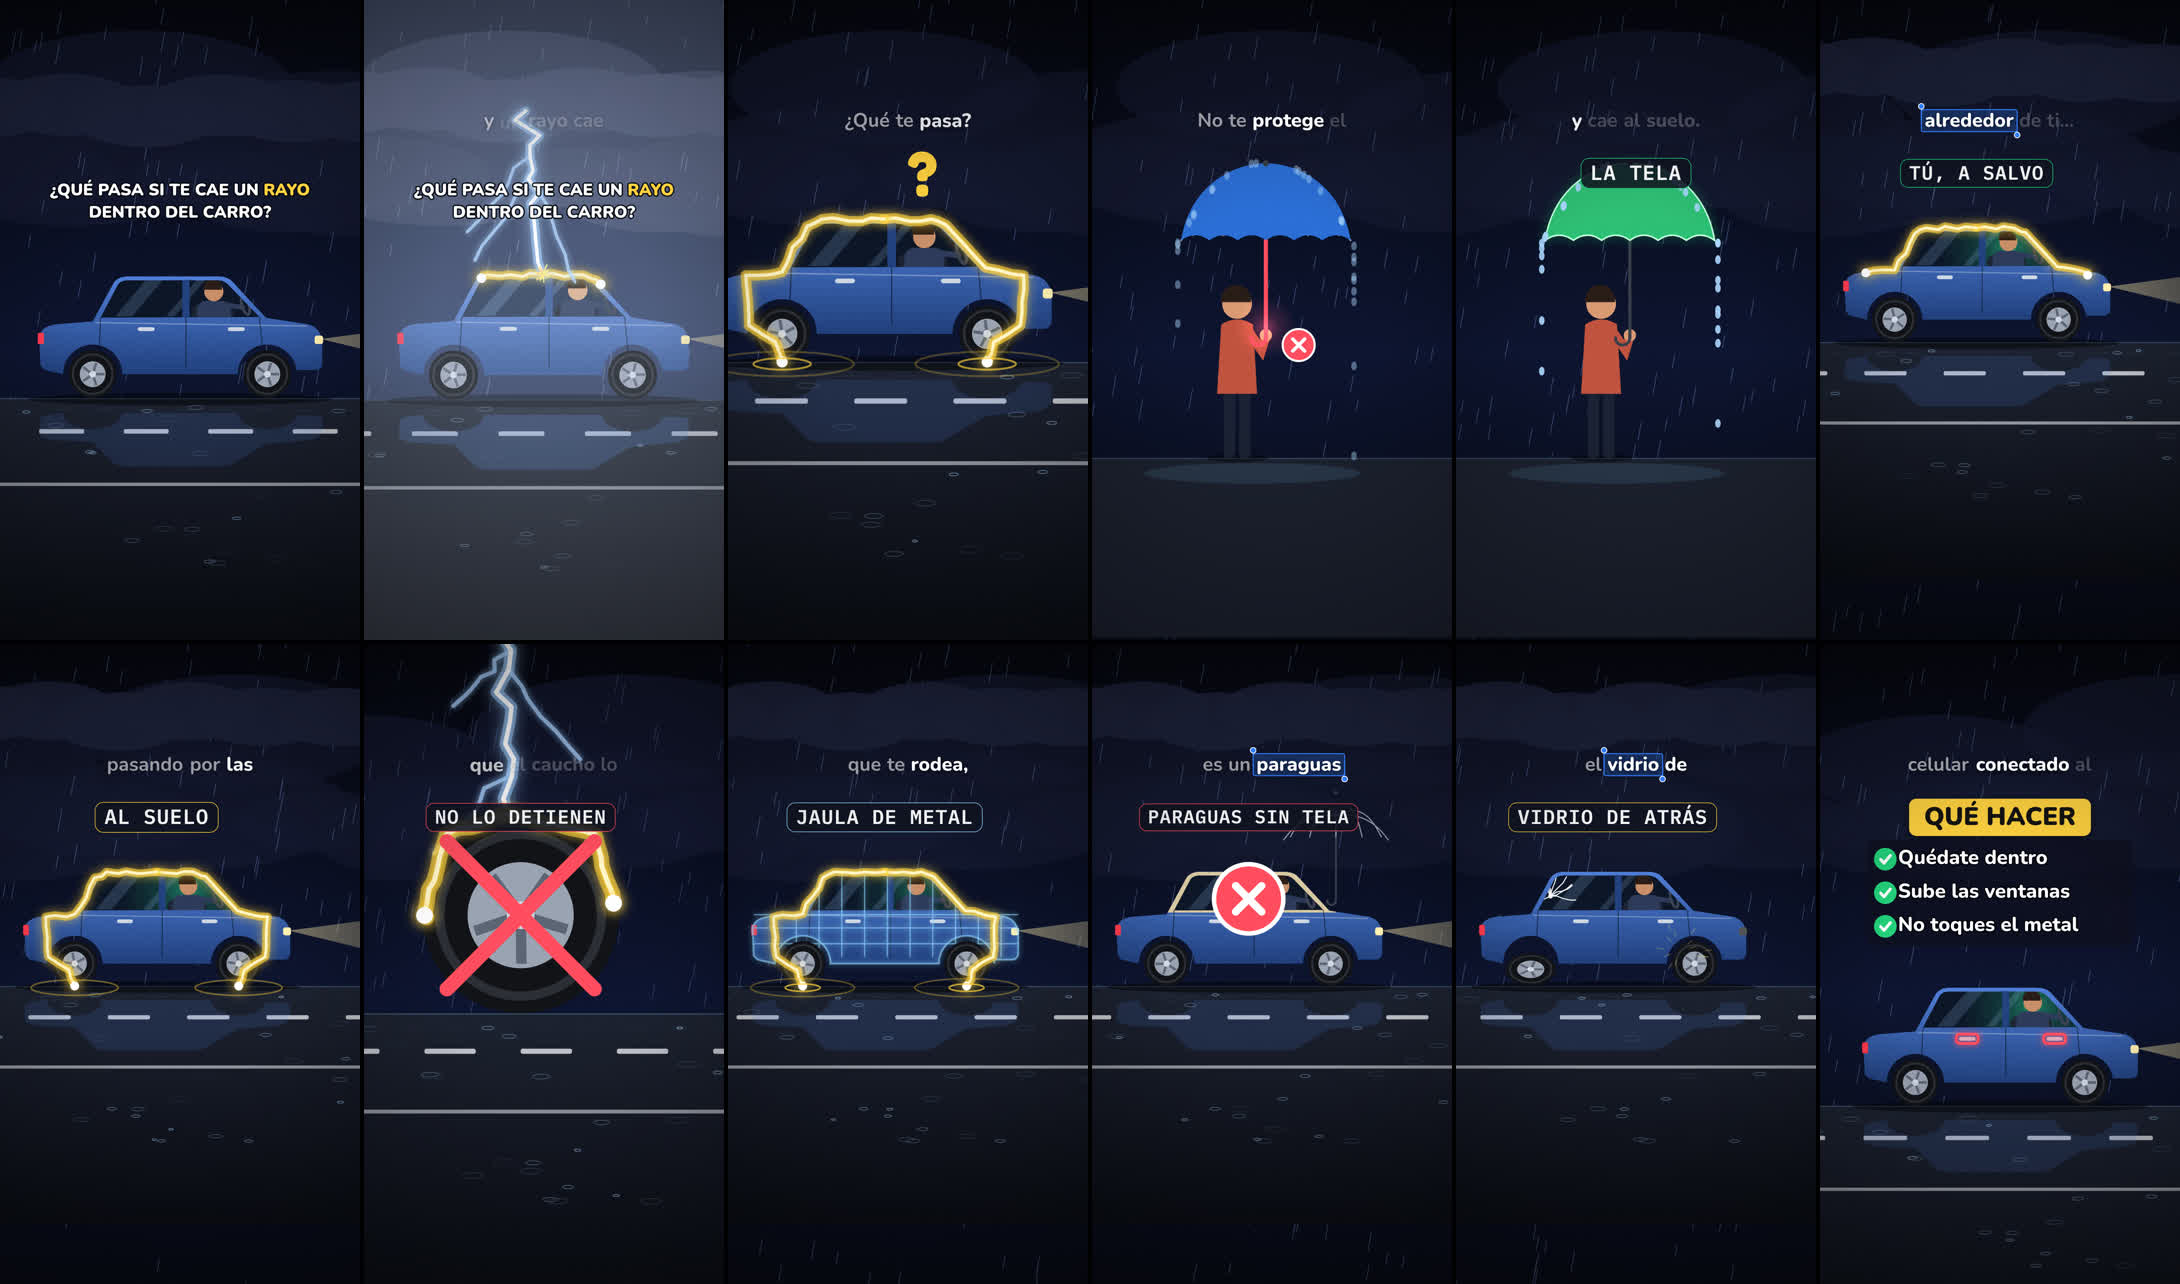
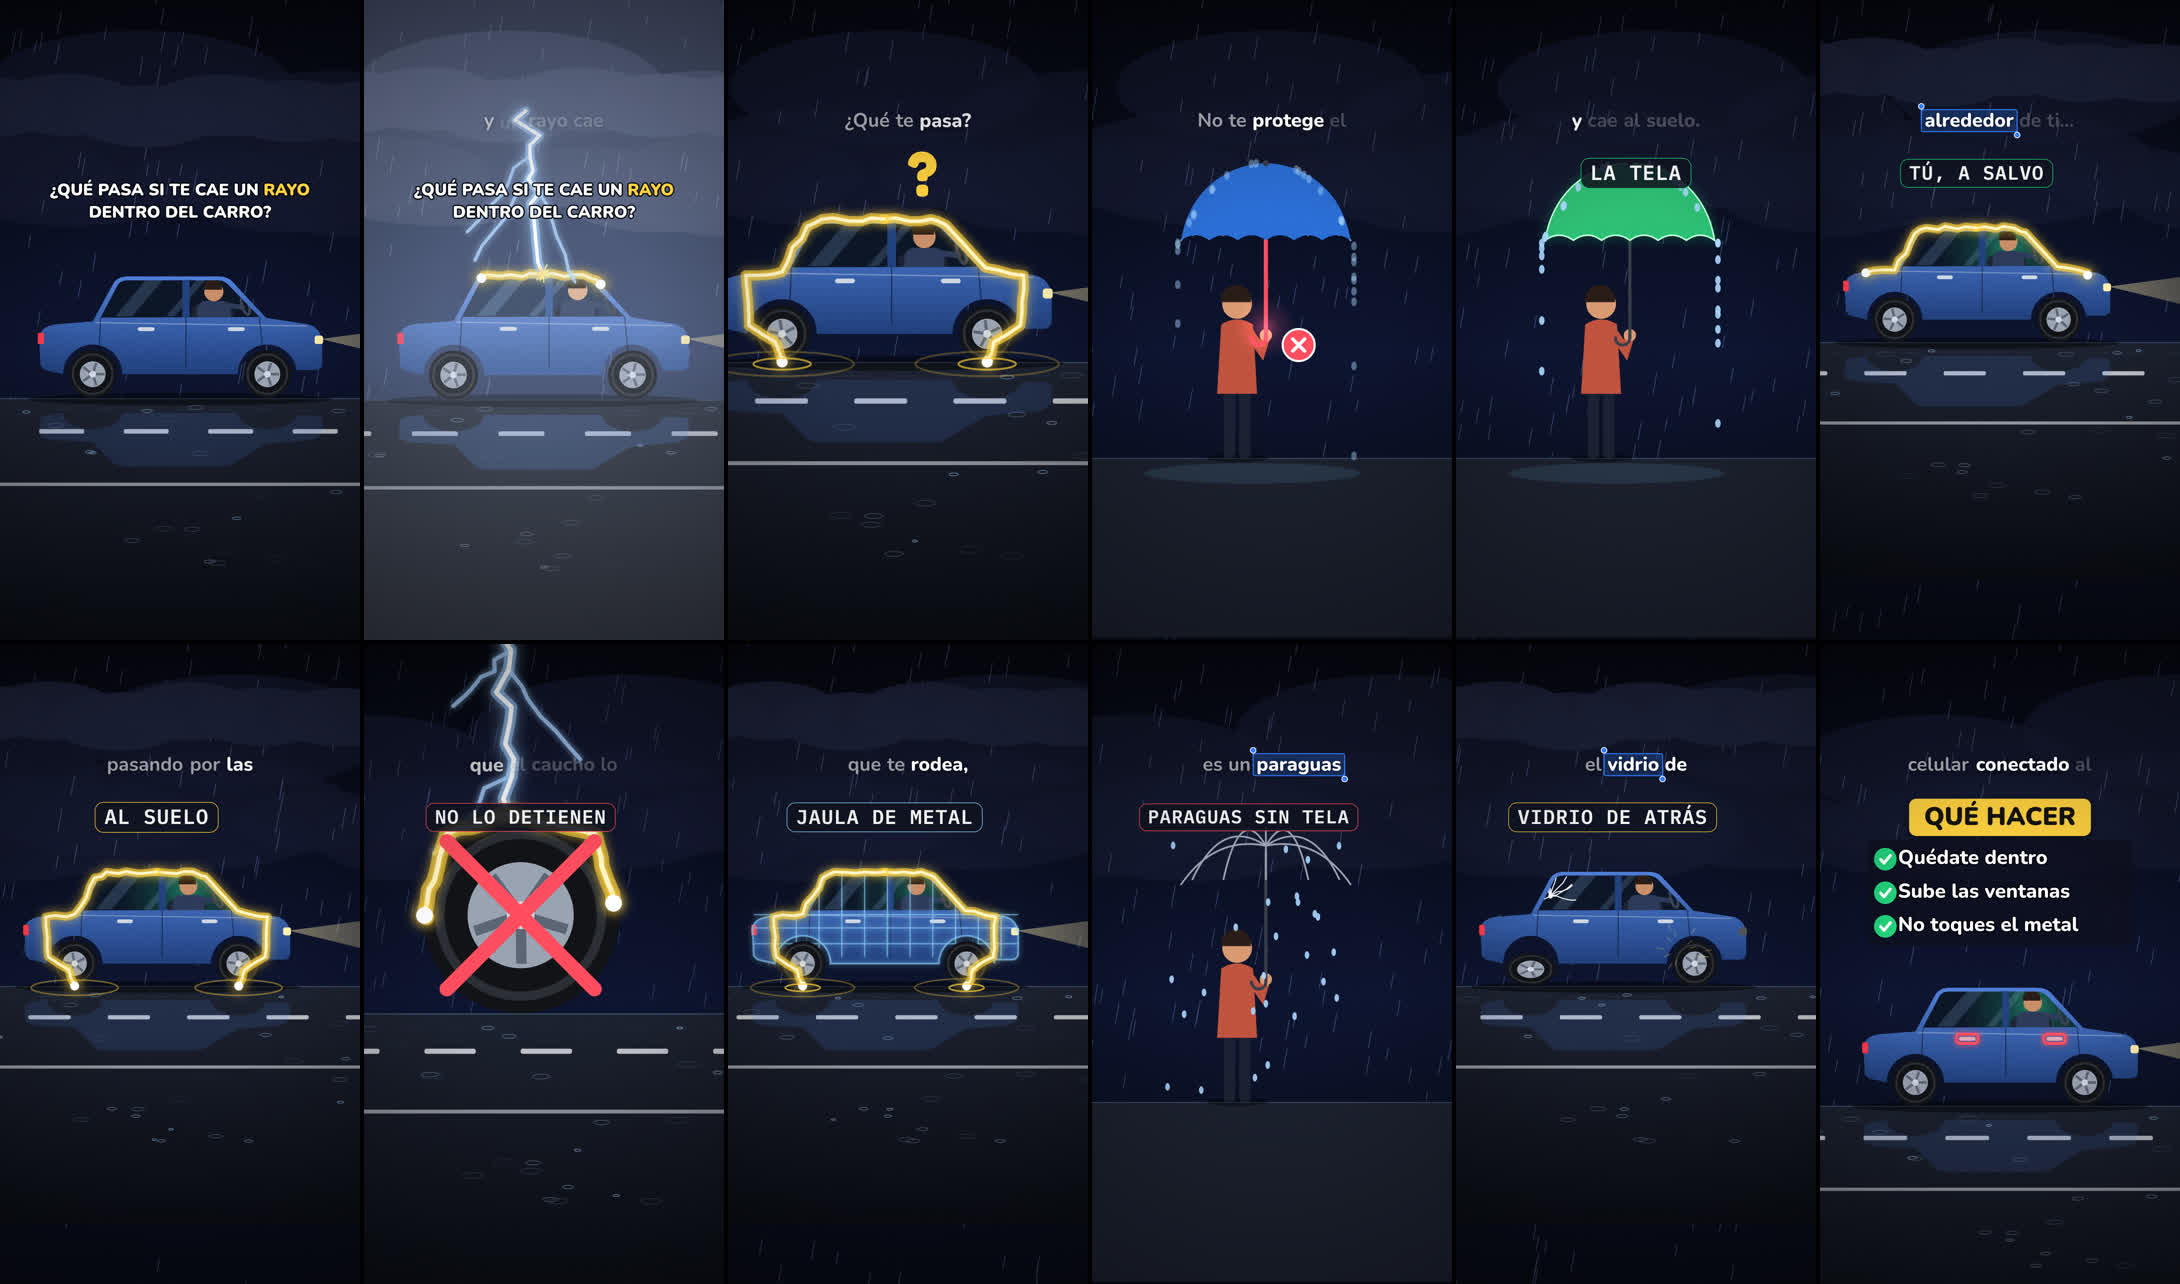
Cap. 1 rayo: «paraguas sin tela» como escena propia
Claude-Session: https://claude.ai/code/session_01KohciJ6VzRMYigYzWPEZPd

Changed region(s): [[0.4991, 0.6542, 0.6862, 0.8411], [0.4991, 0.5296, 0.5927, 0.5607]]

diff --git a/QPS_CAP1_RAYO_CARRO_PROYECTO/04_CODIGO/js/episodio.js b/QPS_CAP1_RAYO_CARRO_PROYECTO/04_CODIGO/js/episodio.js
@@ -191,8 +191,10 @@
  // ---------- 7 · por eso un descapotable no sirve, ni con la capota puesta: es un paraguas sin tela ----------
  B.push({ t0: S(16), t1: S(18), in: { type: 'slide', d: 0.35 }, draw(ctx, t) {
   const fl = rel(t, [Tk.capota]); cielo(ctx, t, fl * 0.7); lluvia(ctx, t, 1, fl); const no = sm(Tk.capota - 0.2, Tk.capota + 0.2, t), ins = sm(Tk.sinTela - 0.9, Tk.sinTela - 0.5, t);
-  const r = ENC(ctx, CAJA, (g) => { carretera(g, t, 0.6); nubes(g, t, fl); carro(g, t, { fl, lona: true, gira: 0.6 }); if (ins > 0) { g.save(); g.globalAlpha *= ins; paraguas(g, 330, -330, 0.6, t, { tela: 0 }); g.restore(); } });
-  if (no > 0) { const [x, y] = r.map(0, -330); P.icon(ctx, 'cruz', x, y, 260 * E.out(no), { mode: 'flat', col: RD, col2: '#fff' }); }
+  ctx.save(); ctx.globalAlpha *= 1 - ins; const r = ENC(ctx, CAJA, (g) => { carretera(g, t, 0.6); nubes(g, t, fl); carro(g, t, { fl, lona: true, gira: 0.6 }); });
+  if (no > 0) { const [x, y] = r.map(0, -330); P.icon(ctx, 'cruz', x, y, 260 * E.out(no), { mode: 'flat', col: RD, col2: '#fff' }); } ctx.restore();
+  if (ins > 0) { ctx.save(); ctx.globalAlpha *= ins; ENC(ctx, [-420, -1200, 470, 60], (g) => { g.fillStyle = '#1c2230'; g.fillRect(-1200, 0, 2400, 700); g.fillStyle = 'rgba(143,216,255,0.25)'; g.fillRect(-1200, 0, 2400, 4); persona(g, -20, 0, 1, t); paraguas(g, 92, -478, 1, t, { tela: 0 });
+   const R2 = H.rng(61); g.fillStyle = 'rgba(170,215,255,0.9)'; for (let i = 0; i < 26; i++) { const px = -300 + R2() * 700, py = -1000 + ((R2() * 1000 + t * 900) % 1000); g.beginPath(); g.ellipse(px, py, 9, 15, 0, 0, TAU); g.fill(); } }, { ancho: 0.98, alto: 0.98 }); ctx.restore(); }
   P.tag(ctx, 'DESCAPOTABLE', 470, 520, t, Tk.descapotable - 0.2, Tk.sinTela - 0.9, { mono: true, col: RD, px: 60 });
   P.tag(ctx, 'PARAGUAS SIN TELA', 470, 520, t, Tk.sinTela - 0.8, S(18), { mono: true, col: RD, px: 56 });
  }, sfx(k) { FX.etiqueta(k, Tk.descapotable - 0.2); trueno(k, Tk.capota, 0.6); k.play('error', Tk.capota + 0.1, { f: 'D3', gain: 0.3 }); FX.etiqueta(k, Tk.sinTela - 0.8); } });
